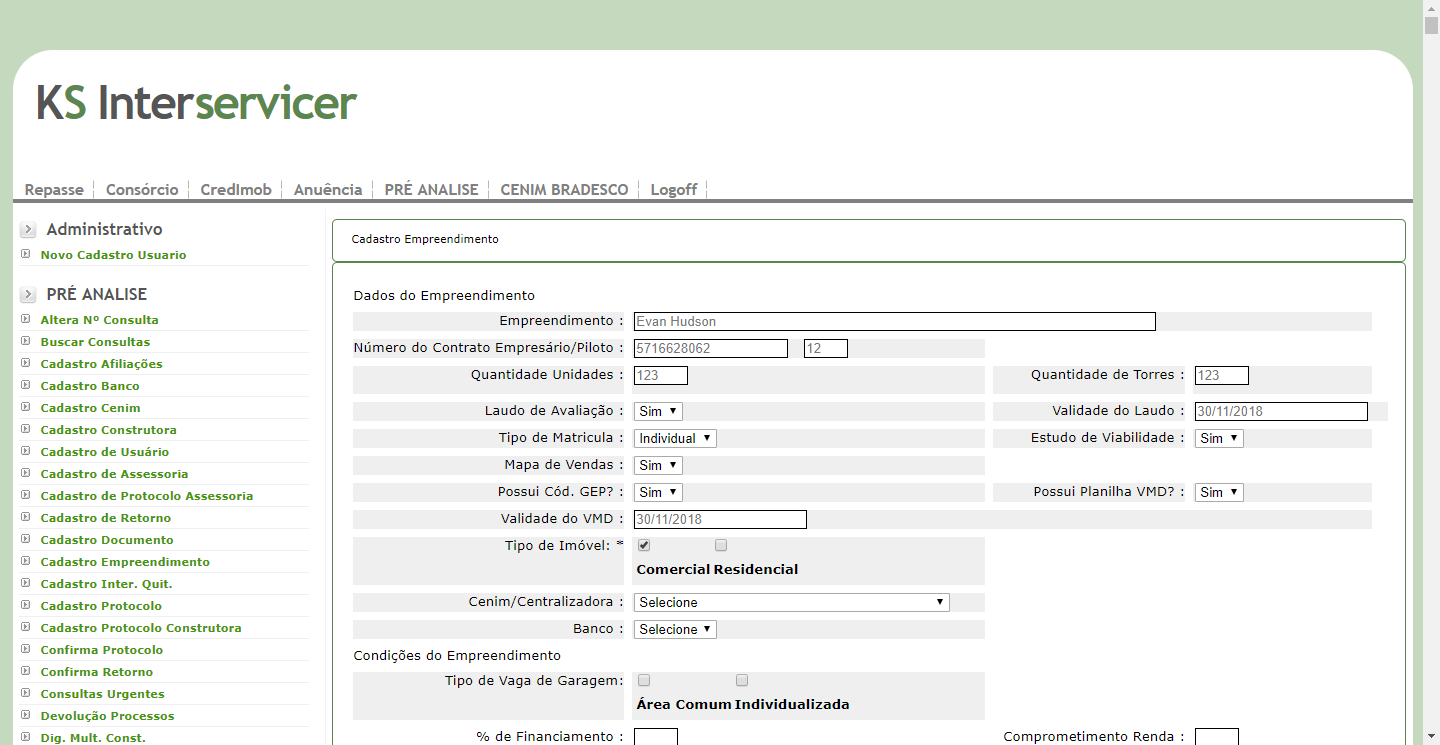
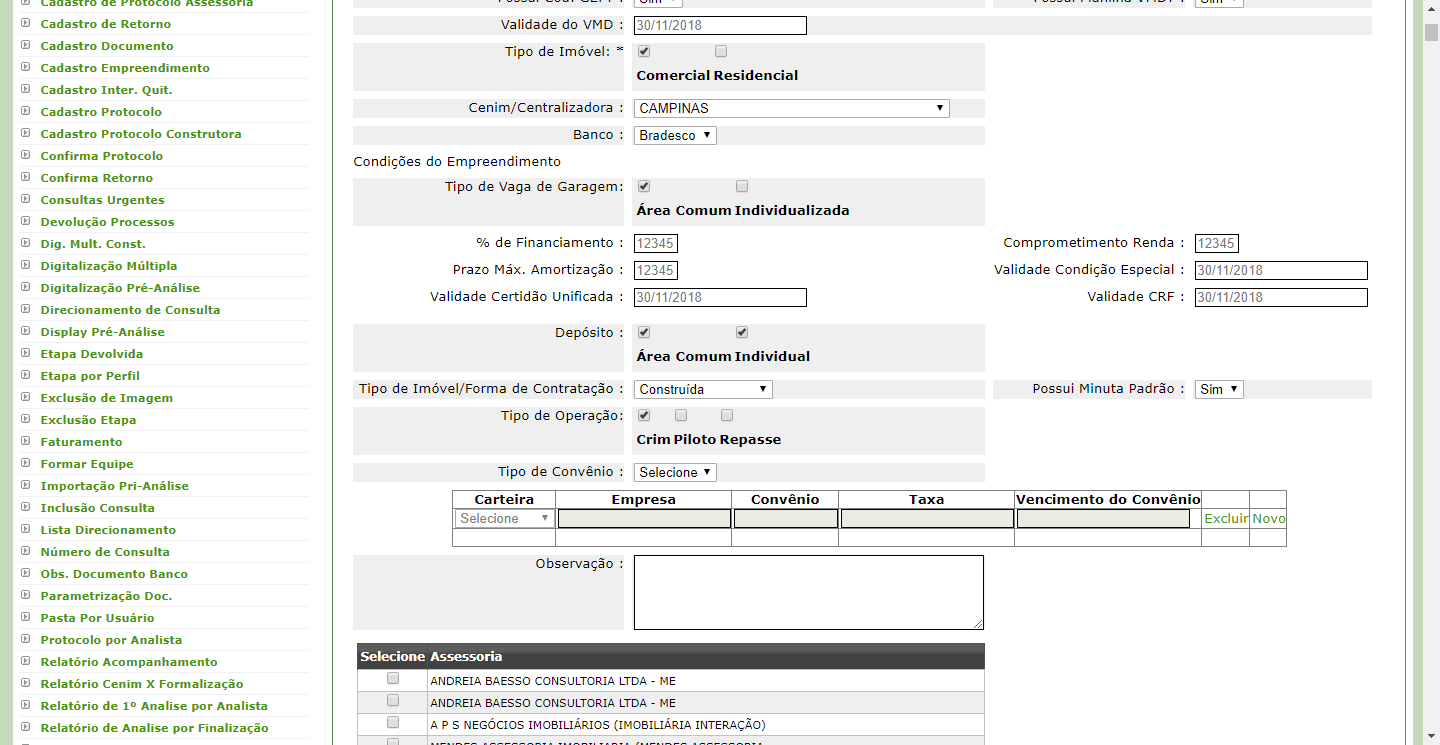
21112018

diff --git a/reports/relatorio.html b/reports/relatorio.html
@@ -467,9 +467,5 @@ function makeRed(element_id) {
 function makeYellow(element_id) {
   $('#'+element_id).css('background', '#FAF834');
   $('#'+element_id).css('color', '#000000');
-}</script></head><body><!-- Step count 0--><div class="cucumber"><div id="cucumber-header"><div id="label"><h1>Cucumber Features</h1></div><div id="summary"><p id="totals"></p><p id="duration"></p><div id="expand-collapse"><p id="expander">Expand All</p><p id="collapser">Collapse All</p></div></div></div><div class="feature"><pre class="comment"># language: pt<br/>#utf-8<br/></pre><span class="tag">@cadastro_emp</span><h2><span class="val">Funcionalidade: Cadastrar novo empreendimento</span></h2><p class="narrative">Eu como usuário do portal KS<br/>Quero acessar o menu de empreendimento<br/>Para cadastrar um novo empreendimento<br/></p><div class="background"><h3 id="background_0"><span class="keyword">Contexto</span> <span class="val">Acessar KS</span></h3><ol><li id='' class='step passed'><div class="step_name"><span class="keyword">Dado </span><span class="step val">que esteja no KS</span></div><div class="step_file"><span>features/step_definitions/Home.rb:1</span></div></li> <script type="text/javascript">moveProgressBar('100.0');</script><li id='' class='step passed'><div class="step_name"><span class="keyword">Quando </span><span class="step val">clicar no menu Cadastro empreendimento</span></div><div class="step_file"><span>features/step_definitions/cadastro_empreendimento.rb:1</span></div></li> <script type="text/javascript">moveProgressBar('100.0');</script><li id='' class='step passed'><div class="step_name"><span class="keyword">E </span><span class="step val">clico no botão Novo Emp</span></div><div class="step_file"><span>features/step_definitions/cadastro_empreendimento.rb:6</span></div></li> <script type="text/javascript">moveProgressBar('100.0');</script></ol></div><div class='scenario outline'><span class="tag">@cadastra_emp</span><span class="scenario_file">features/specs/cadastrar_novo_emp.feature:60</span><h3 id="scenario_1"><span class="keyword">Esquema do Cenário:</span> <span class="val">Validar mensagem de cadastro com sucesso</span></h3><ol><li id='' class='step skipped'><div class="step_name"><span class="keyword">Quando </span><span class="step val">preencher nome do empreendimento, contrato e &quot;&lt;digito&gt;&quot;, &quot;&lt;unidades&gt;&quot; e &quot;&lt;torres&gt;&quot;</span></div><div class="step_file"><span>features/specs/cadastrar_novo_emp.feature:61</span></div></li> <script type="text/javascript">moveProgressBar('100.0');</script><li id='' class='step skipped'><div class="step_name"><span class="keyword">E </span><span class="step val">preencher os campos Laudo de avaliação e Validade</span></div><div class="step_file"><span>features/specs/cadastrar_novo_emp.feature:62</span></div></li> <script type="text/javascript">moveProgressBar('100.0');</script><li id='' class='step skipped'><div class="step_name"><span class="keyword">E </span><span class="step val">preencher Tipo de matricula e estudo de Viabilidade</span></div><div class="step_file"><span>features/specs/cadastrar_novo_emp.feature:63</span></div></li> <script type="text/javascript">moveProgressBar('100.0');</script><pre class="comment"># E preencher Mapa de vendas e código GEP<br/></pre><li id='' class='step skipped'><div class="step_name"><span class="keyword">E </span><span class="step val">preencher planilha VMD  e Validade</span></div><div class="step_file"><span>features/specs/cadastrar_novo_emp.feature:65</span></div></li> <script type="text/javascript">moveProgressBar('100.0');</script><li id='' class='step skipped'><div class="step_name"><span class="keyword">E </span><span class="step val">preencher Tipo de imovel</span></div><div class="step_file"><span>features/specs/cadastrar_novo_emp.feature:66</span></div></li> <script type="text/javascript">moveProgressBar('100.0');</script><li id='' class='step skipped'><div class="step_name"><span class="keyword">E </span><span class="step val">escolher  as opções de Ceninm e Banco</span></div><div class="step_file"><span>features/specs/cadastrar_novo_emp.feature:67</span></div></li> <script type="text/javascript">moveProgressBar('100.0');</script><li id='' class='step skipped'><div class="step_name"><span class="keyword">E </span><span class="step val">preencher o campo tipo de Garagem</span></div><div class="step_file"><span>features/specs/cadastrar_novo_emp.feature:68</span></div></li> <script type="text/javascript">moveProgressBar('100.0');</script><li id='' class='step skipped'><div class="step_name"><span class="keyword">E </span><span class="step val">preencher os campos &quot;&lt;financiamento&gt;&quot;, &quot;&lt;renda&gt;&quot; e &quot;&lt;prazo&gt;&quot;</span></div><div class="step_file"><span>features/specs/cadastrar_novo_emp.feature:69</span></div></li> <script type="text/javascript">moveProgressBar('100.0');</script><li id='' class='step skipped'><div class="step_name"><span class="keyword">E </span><span class="step val">preencher validade de condição especial, certidão unificada e CRF</span></div><div class="step_file"><span>features/specs/cadastrar_novo_emp.feature:70</span></div></li> <script type="text/javascript">moveProgressBar('100.0');</script><li id='' class='step skipped'><div class="step_name"><span class="keyword">E </span><span class="step val">escolhar o deposito</span></div><div class="step_file"><span>features/specs/cadastrar_novo_emp.feature:71</span></div></li> <script type="text/javascript">moveProgressBar('100.0');</script><li id='' class='step skipped'><div class="step_name"><span class="keyword">E </span><span class="step val">preencher a forma de contratação e  se possui minuta  padrão</span></div><div class="step_file"><span>features/specs/cadastrar_novo_emp.feature:72</span></div></li> <script type="text/javascript">moveProgressBar('100.0');</script><li id='' class='step skipped'><div class="step_name"><span class="keyword">E </span><span class="step val">preencher o tipo de operação e convênio</span></div><div class="step_file"><span>features/specs/cadastrar_novo_emp.feature:73</span></div></li> <script type="text/javascript">moveProgressBar('100.0');</script><li id='' class='step skipped'><div class="step_name"><span class="keyword">E </span><span class="step val">escolher uma assessoria e contrutora</span></div><div class="step_file"><span>features/specs/cadastrar_novo_emp.feature:74</span></div></li> <script type="text/javascript">moveProgressBar('100.0');</script><li id='' class='step skipped'><div class="step_name"><span class="keyword">E </span><span class="step val">clicar no botão gravar</span></div><div class="step_file"><span>features/specs/cadastrar_novo_emp.feature:75</span></div></li> <script type="text/javascript">moveProgressBar('100.0');</script><li id='' class='step skipped'><div class="step_name"><span class="keyword">E </span><span class="step val">preencher o campo bloco</span></div><div class="step_file"><span>features/specs/cadastrar_novo_emp.feature:76</span></div></li> <script type="text/javascript">moveProgressBar('100.0');</script><li id='' class='step skipped'><div class="step_name"><span class="keyword">Então </span><span class="step val">as informações deverão ser salvas com sucesso</span></div><div class="step_file"><span>features/specs/cadastrar_novo_emp.feature:77</span></div></li> <script type="text/javascript">moveProgressBar('100.0');</script></ol><div class="examples"><h4><span class="keyword">Exemplos</span> <span class="val"></span></h4><table><tr class='step' id='features_specs_cadastrar_novo_emp_feature_80'><th id="features_specs_cadastrar_novo_emp_feature_80_0" class="step skipped_param"><div><span class="step param">digito</span></div></th><th id="features_specs_cadastrar_novo_emp_feature_80_1" class="step skipped_param"><div><span class="step param">unidades</span></div></th><th id="features_specs_cadastrar_novo_emp_feature_80_2" class="step skipped_param"><div><span class="step param">torres</span></div></th></tr> <script type="text/javascript">moveProgressBar('100.0');</script><tr class='step' id='features_specs_cadastrar_novo_emp_feature_81'><td id="features_specs_cadastrar_novo_emp_feature_81_0" class="step failed"><div><span class="step param">123</span></div></td><script>makeRed('cucumber-header');makeRed('scenario_1');</script><td id="features_specs_cadastrar_novo_emp_feature_81_1" class="step failed"><div><span class="step param">123</span></div></td><script></script><td id="features_specs_cadastrar_novo_emp_feature_81_2" class="step failed"><div><span class="step param">123</span></div></td><script></script><span class="embed"><a href="" onclick="img=document.getElementById('img_1'); img.style.display = (img.style.display == 'none' ? 'block' : 'none');return false">Clique aqui</a><br>&nbsp;
-          <img id="img_1" style="display: none" src="../results/screenshots/teste_Falhou/validar_mensagem_de_cadastro_com_sucesso,_exemplos_(#1).png"/></span></tr><tr><td colspan="3" class="failed"><pre>Ambiguous match, found 10 elements matching visible css &quot;option[value=\&quot;1\&quot;]&quot;
-./features/pages/Cadastro_Empreendimento_page.rb:77:in `choose_banco&#39;
-./features/step_definitions/cadastro_empreendimento.rb:69:in `&quot;escolher  as opções de Ceninm e Banco&quot;&#39;
-features/specs/cadastrar_novo_emp.feature:81:in `E escolher  as opções de Ceninm e Banco&#39;
-features/specs/cadastrar_novo_emp.feature:67:in `E escolher  as opções de Ceninm e Banco&#39;</pre></td></tr><script></script> <script type="text/javascript">moveProgressBar('100.0');</script></table></div></div></div><script type="text/javascript">document.getElementById('duration').innerHTML = "Finished in <strong>0m25.415s seconds</strong>";</script><script type="text/javascript">document.getElementById('totals').innerHTML = "1 scenario (1 failed)<br />19 steps (1 failed, 10 skipped, 8 passed)";</script></div></body></html>
+}</script></head><body><!-- Step count 0--><div class="cucumber"><div id="cucumber-header"><div id="label"><h1>Cucumber Features</h1></div><div id="summary"><p id="totals"></p><p id="duration"></p><div id="expand-collapse"><p id="expander">Expand All</p><p id="collapser">Collapse All</p></div></div></div><div class="feature"><pre class="comment"># language: pt<br/>#utf-8<br/></pre><span class="tag">@cadastro_emp</span><h2><span class="val">Funcionalidade: Cadastrar novo empreendimento</span></h2><p class="narrative">Eu como usuário do portal KS<br/>Quero acessar o menu de empreendimento<br/>Para cadastrar um novo empreendimento<br/></p><div class="background"><h3 id="background_0"><span class="keyword">Contexto</span> <span class="val">Acessar KS</span></h3><ol><li id='' class='step passed'><div class="step_name"><span class="keyword">Dado </span><span class="step val">que esteja no KS</span></div><div class="step_file"><span>features/step_definitions/Home.rb:1</span></div></li> <script type="text/javascript">moveProgressBar('100.0');</script><li id='' class='step passed'><div class="step_name"><span class="keyword">Quando </span><span class="step val">clicar no menu Cadastro empreendimento</span></div><div class="step_file"><span>features/step_definitions/cadastro_empreendimento.rb:1</span></div></li> <script type="text/javascript">moveProgressBar('100.0');</script><li id='' class='step passed'><div class="step_name"><span class="keyword">E </span><span class="step val">clico no botão Novo Emp</span></div><div class="step_file"><span>features/step_definitions/cadastro_empreendimento.rb:6</span></div></li> <script type="text/javascript">moveProgressBar('100.0');</script></ol></div><div class='scenario outline'><span class="tag">@cadastra_emp</span><span class="scenario_file">features/specs/cadastrar_novo_emp.feature:60</span><h3 id="scenario_1"><span class="keyword">Esquema do Cenário:</span> <span class="val">Validar mensagem de cadastro com sucesso</span></h3><ol><li id='' class='step skipped'><div class="step_name"><span class="keyword">Quando </span><span class="step val">preencher nome do empreendimento, contrato e &quot;&lt;digito&gt;&quot;, &quot;&lt;unidades&gt;&quot; e &quot;&lt;torres&gt;&quot;</span></div><div class="step_file"><span>features/specs/cadastrar_novo_emp.feature:61</span></div></li> <script type="text/javascript">moveProgressBar('100.0');</script><li id='' class='step skipped'><div class="step_name"><span class="keyword">E </span><span class="step val">preencher os campos Laudo de avaliação e Validade</span></div><div class="step_file"><span>features/specs/cadastrar_novo_emp.feature:62</span></div></li> <script type="text/javascript">moveProgressBar('100.0');</script><li id='' class='step skipped'><div class="step_name"><span class="keyword">E </span><span class="step val">preencher Tipo de matricula e estudo de Viabilidade</span></div><div class="step_file"><span>features/specs/cadastrar_novo_emp.feature:63</span></div></li> <script type="text/javascript">moveProgressBar('100.0');</script><pre class="comment"># E preencher Mapa de vendas e código GEP<br/></pre><li id='' class='step skipped'><div class="step_name"><span class="keyword">E </span><span class="step val">preencher planilha VMD  e Validade</span></div><div class="step_file"><span>features/specs/cadastrar_novo_emp.feature:65</span></div></li> <script type="text/javascript">moveProgressBar('100.0');</script><li id='' class='step skipped'><div class="step_name"><span class="keyword">E </span><span class="step val">preencher Tipo de imovel</span></div><div class="step_file"><span>features/specs/cadastrar_novo_emp.feature:66</span></div></li> <script type="text/javascript">moveProgressBar('100.0');</script><li id='' class='step skipped'><div class="step_name"><span class="keyword">E </span><span class="step val">escolher  as opções de Ceninm e Banco</span></div><div class="step_file"><span>features/specs/cadastrar_novo_emp.feature:67</span></div></li> <script type="text/javascript">moveProgressBar('100.0');</script><li id='' class='step skipped'><div class="step_name"><span class="keyword">E </span><span class="step val">preencher o campo tipo de Garagem</span></div><div class="step_file"><span>features/specs/cadastrar_novo_emp.feature:68</span></div></li> <script type="text/javascript">moveProgressBar('100.0');</script><li id='' class='step skipped'><div class="step_name"><span class="keyword">E </span><span class="step val">preencher os campos &quot;&lt;financiamento&gt;&quot;, &quot;&lt;renda&gt;&quot; e &quot;&lt;prazo&gt;&quot;</span></div><div class="step_file"><span>features/specs/cadastrar_novo_emp.feature:69</span></div></li> <script type="text/javascript">moveProgressBar('100.0');</script><li id='' class='step skipped'><div class="step_name"><span class="keyword">E </span><span class="step val">preencher validade de condição especial, certidão unificada e CRF</span></div><div class="step_file"><span>features/specs/cadastrar_novo_emp.feature:70</span></div></li> <script type="text/javascript">moveProgressBar('100.0');</script><li id='' class='step skipped'><div class="step_name"><span class="keyword">E </span><span class="step val">escolhar o deposito</span></div><div class="step_file"><span>features/specs/cadastrar_novo_emp.feature:71</span></div></li> <script type="text/javascript">moveProgressBar('100.0');</script><li id='' class='step skipped'><div class="step_name"><span class="keyword">E </span><span class="step val">preencher a forma de contratação e  se possui minuta  padrão</span></div><div class="step_file"><span>features/specs/cadastrar_novo_emp.feature:72</span></div></li> <script type="text/javascript">moveProgressBar('100.0');</script><li id='' class='step skipped'><div class="step_name"><span class="keyword">E </span><span class="step val">preencher o tipo de operação e convênio</span></div><div class="step_file"><span>features/specs/cadastrar_novo_emp.feature:73</span></div></li> <script type="text/javascript">moveProgressBar('100.0');</script><li id='' class='step skipped'><div class="step_name"><span class="keyword">E </span><span class="step val">escolher uma assessoria e contrutora</span></div><div class="step_file"><span>features/specs/cadastrar_novo_emp.feature:74</span></div></li> <script type="text/javascript">moveProgressBar('100.0');</script><li id='' class='step skipped'><div class="step_name"><span class="keyword">E </span><span class="step val">clicar no botão gravar</span></div><div class="step_file"><span>features/specs/cadastrar_novo_emp.feature:75</span></div></li> <script type="text/javascript">moveProgressBar('100.0');</script><li id='' class='step skipped'><div class="step_name"><span class="keyword">E </span><span class="step val">preencher o campo bloco</span></div><div class="step_file"><span>features/specs/cadastrar_novo_emp.feature:76</span></div></li> <script type="text/javascript">moveProgressBar('100.0');</script><li id='' class='step skipped'><div class="step_name"><span class="keyword">Então </span><span class="step val">as informações deverão ser salvas com sucesso</span></div><div class="step_file"><span>features/specs/cadastrar_novo_emp.feature:77</span></div></li> <script type="text/javascript">moveProgressBar('100.0');</script></ol><div class="examples"><h4><span class="keyword">Exemplos</span> <span class="val"></span></h4><table><tr class='step' id='features_specs_cadastrar_novo_emp_feature_80'><th id="features_specs_cadastrar_novo_emp_feature_80_0" class="step skipped_param"><div><span class="step param">digito</span></div></th><th id="features_specs_cadastrar_novo_emp_feature_80_1" class="step skipped_param"><div><span class="step param">unidades</span></div></th><th id="features_specs_cadastrar_novo_emp_feature_80_2" class="step skipped_param"><div><span class="step param">torres</span></div></th><th id="features_specs_cadastrar_novo_emp_feature_80_3" class="step skipped_param"><div><span class="step param">financiamento</span></div></th><th id="features_specs_cadastrar_novo_emp_feature_80_4" class="step skipped_param"><div><span class="step param">renda</span></div></th><th id="features_specs_cadastrar_novo_emp_feature_80_5" class="step skipped_param"><div><span class="step param">prazo</span></div></th></tr> <script type="text/javascript">moveProgressBar('100.0');</script><tr class='step' id='features_specs_cadastrar_novo_emp_feature_81'><td id="features_specs_cadastrar_novo_emp_feature_81_0" class="step passed"><div><span class="step param">123</span></div></td><td id="features_specs_cadastrar_novo_emp_feature_81_1" class="step passed"><div><span class="step param">123</span></div></td><td id="features_specs_cadastrar_novo_emp_feature_81_2" class="step passed"><div><span class="step param">123</span></div></td><td id="features_specs_cadastrar_novo_emp_feature_81_3" class="step passed"><div><span class="step param">12345</span></div></td><td id="features_specs_cadastrar_novo_emp_feature_81_4" class="step passed"><div><span class="step param">12345</span></div></td><td id="features_specs_cadastrar_novo_emp_feature_81_5" class="step passed"><div><span class="step param">12345</span></div></td><span class="embed"><a href="" onclick="img=document.getElementById('img_1'); img.style.display = (img.style.display == 'none' ? 'block' : 'none');return false">Clique aqui</a><br>&nbsp;
+          <img id="img_1" style="display: none" src="../results/screenshots/teste_Passou/validar_mensagem_de_cadastro_com_sucesso,_exemplos_(#1).png"/></span></tr> <script type="text/javascript">moveProgressBar('100.0');</script></table></div></div></div><script type="text/javascript">document.getElementById('duration').innerHTML = "Finished in <strong>0m26.184s seconds</strong>";</script><script type="text/javascript">document.getElementById('totals').innerHTML = "1 scenario (1 passed)<br />19 steps (19 passed)";</script></div></body></html>

diff --git a/features/pages/Cadastro_Empreendimento_page.rb b/features/pages/Cadastro_Empreendimento_page.rb
@@ -11,6 +11,18 @@ class CadastroEmpreendimentoPage < SitePrism::Page
     element :tipo_matricula, :xpath, '//select[@id = "ctl00_ContentPlaceHolder1_TabContainer1_TabPanel1_ddlTipoMatricula"]/option[2]'
     element :validade_laudo, :id, 'ctl00_ContentPlaceHolder1_TabContainer1_TabPanel1_txtDtLaudo'
     element :validade_VMD, :id, 'ctl00_ContentPlaceHolder1_TabContainer1_TabPanel1_txtValidadeVMD'
+    element :financiamento, :id, 'ctl00_ContentPlaceHolder1_TabContainer1_TabPanel1_txtPorcentagemFinanciamento'
+    element :renda, :id, 'ctl00_ContentPlaceHolder1_TabContainer1_TabPanel1_txtComprometimentoRenda'
+    element :prazo_amortização, :id, 'ctl00_ContentPlaceHolder1_TabContainer1_TabPanel1_txtPrazoMaxAmor'
+    element :validade_condicao_especial, :id, 'ctl00_ContentPlaceHolder1_TabContainer1_TabPanel1_txtDtCondicaoEspecial'
+    element :validade_certidao_unificada, :id, 'ctl00_ContentPlaceHolder1_TabContainer1_TabPanel1_txtDtValidadeCertUnificada'
+    element :validade_crf, :id, 'ctl00_ContentPlaceHolder1_TabContainer1_TabPanel1_txtDtValidadeCRF'
+    element :deposito_area_comum, :id, 'ctl00_ContentPlaceHolder1_TabContainer1_TabPanel1_chkDeposito_0'
+    element :deposito_individual, :id, 'ctl00_ContentPlaceHolder1_TabContainer1_TabPanel1_chkDeposito_1'
+    element :operacao_crim, :id, 'ctl00_ContentPlaceHolder1_TabContainer1_TabPanel1_chkTipoOperacao_0'
+    element :operacao_piloto, :id, 'ctl00_ContentPlaceHolder1_TabContainer1_TabPanel1_chkTipoOperacao_1'
+    element :operacao_repasse, :id, 'ctl00_ContentPlaceHolder1_TabContainer1_TabPanel1_chkTipoOperacao_2'
+
 
     element :bloco, :id, 'ctl00_ContentPlaceHolder1_TabContainer1_TabPanel1_txtBloco'
     
@@ -30,12 +42,14 @@ class CadastroEmpreendimentoPage < SitePrism::Page
         page.execute_script "window.scrollTo(0,1000000)" 
     end
 
-    def dados_empreendimento1(digit, qtdUnidades, qtdTorres)
+    def nome_empreendimento_fake
         nome_emp.click
         @nomeEmpreendimento = Faker::Name.name 
         nome_emp.set(@nomeEmpreendimento)
+    end
 
-        nome_emp.click
+    def dados_empreendimento1(digit, qtdUnidades, qtdTorres)
+        num_contrato.click
         @numero_Contrato = Faker::Number.number(10) #=> "1968353479"
         num_contrato.set(@numero_Contrato)
 
@@ -57,24 +71,68 @@ class CadastroEmpreendimentoPage < SitePrism::Page
     def dados_empreendimento4
         validade_VMD.click
         find('#ctl00_ContentPlaceHolder1_TabContainer1_TabPanel1_CalendarExtender1_day_4_5').click       
-   end
+    end
 
-   def dados_empreendimento5
+    def tipo_imovel
         find('#ctl00_ContentPlaceHolder1_TabContainer1_TabPanel1_chkTipoImovel_0').click #Comercial
         # find('#ctl00_ContentPlaceHolder1_TabContainer1_TabPanel1_chkTipoImovel_1').click #Residencial
-   end 
-
-   def tipo_de_garagem
-    find('#ctl00_ContentPlaceHolder1_TabContainer1_TabPanel1_chkTipoGaragem_0').click #Area comum
-    # find('#ctl00_ContentPlaceHolder1_TabContainer1_TabPanel1_chkTipoGaragem_1').click #Individualizada
+        sleep 1
     end 
 
     def choose_cenim
         find('option[value="183"]').select_option
+        sleep 1
     end
 
     def choose_banco
-        find('option[value="1"]').select_option
+        find(:xpath, '//option[text() ="Bradesco"]').select_option
+        sleep 1
+    end
+
+    def tipo_de_garagem
+        find('#ctl00_ContentPlaceHolder1_TabContainer1_TabPanel1_chkTipoGaragem_0').click #Area comum
+        # find('#ctl00_ContentPlaceHolder1_TabContainer1_TabPanel1_chkTipoGaragem_1').click #Individualizada
+        sleep 1
+    end 
+
+    def dados_empreendimento6(campo_financiamento, campo_renda, campo_prazo)
+        financiamento.click
+        financiamento.set(campo_financiamento)
+        renda.click
+        renda.set(campo_renda)
+        prazo_amortização.click
+        prazo_amortização.set(campo_prazo)
+    end 
+
+    def preenchimento_validades
+        validade_condicao_especial.click
+        find('#ctl00_ContentPlaceHolder1_TabContainer1_TabPanel1_CalendarExtender2_day_4_5').click       
+
+        validade_certidao_unificada.click
+        find('#ctl00_ContentPlaceHolder1_TabContainer1_TabPanel1_CalendarExtender3_day_4_5').click       
+
+        validade_crf.click
+        find('#ctl00_ContentPlaceHolder1_TabContainer1_TabPanel1_CalendarExtender4_day_4_5').click 
+    end 
+
+    def choose_deposito
+        deposito_area_comum.click 
+        deposito_individual.click
+        sleep 1
+    end
+
+    def forma_contratacao
+        find(:xpath, '//option[text() ="Construída"]').select_option
+        sleep 1
+    end
+
+    def tipo_de_operacao_convenio
+        operacao_crim.click
+        # operacao_piloto.click
+        # operacao_repasse.click
+        sleep 1
+
+        find(:xpath, '//select[@id ="ctl00_ContentPlaceHolder1_TabContainer1_TabPanel1_ddlTipoConvenio"]/option[3]').select_option
     end
 
     def choose_assessoria
@@ -93,4 +151,4 @@ class CadastroEmpreendimentoPage < SitePrism::Page
         find(:xpath, '//input[@value = "Voltar"]').click 
     end
 
-   end
+end

diff --git a/features/step_definitions/cadastro_empreendimento.rb b/features/step_definitions/cadastro_empreendimento.rb
@@ -41,7 +41,8 @@ Quando("clicar no menu Cadastro empreendimento") do
 
   #Cenário 15: Validar mensagem de cadastro com sucesso
   Quando("preencher nome do empreendimento, contrato e {string}, {string} e {string}") do |valor1, valor2, valor3|
-      $novo_emp.dados_empreendimento1(valor1, valor2, valor3)
+    $novo_emp.nome_empreendimento_fake
+    $novo_emp.dados_empreendimento1(valor1, valor2, valor3)
   end
   
   Quando("preencher os campos Laudo de avaliação e Validade") do
@@ -52,16 +53,12 @@ Quando("clicar no menu Cadastro empreendimento") do
     $novo_emp.dados_empreendimento3
   end
   
-  # Quando("preencher Mapa de vendas e código GEP") do
-  #   pending # Write code here that turns the phrase above into concrete actions
-  # end
-  
   Quando("preencher planilha VMD  e Validade") do
     $novo_emp.dados_empreendimento4
   end
   
   Quando("preencher Tipo de imovel") do
-   $novo_emp.dados_empreendimento5
+   $novo_emp.tipo_imovel
   end
   
   Quando("escolher  as opções de Ceninm e Banco") do
@@ -71,29 +68,28 @@ Quando("clicar no menu Cadastro empreendimento") do
   
   Quando("preencher o campo tipo de Garagem") do
     $novo_emp.tipo_de_garagem
-    sleep 2
-  end
+ end
   
   Quando("preencher os campos {string}, {string} e {string}") do |string, string2, string3|
-    pending # Write code here that turns the phrase above into concrete actions
+    $novo_emp.dados_empreendimento6(string, string2, string3)
   end
   
   Quando("preencher validade de condição especial, certidão unificada e CRF") do
-    pending # Write code here that turns the phrase above into concrete actions
+    $novo_emp.preenchimento_validades
   end
   
   Quando("escolhar o deposito") do
-    pending # Write code here that turns the phrase above into concrete actions
+    $novo_emp.choose_deposito
+    sleep 2
   end
   
   Quando("preencher a forma de contratação e  se possui minuta  padrão") do
-    pending # Write code here that turns the phrase above into concrete actions
+    $novo_emp.forma_contratacao
   end
   
   Quando("preencher o tipo de operação e convênio") do
-    pending # Write code here that turns the phrase above into concrete actions
-  end  
-  
+    $novo_emp.tipo_de_operacao_convenio
+  end   
   
   
   Quando("escolher uma assessoria e contrutora") do
@@ -124,4 +120,17 @@ Quando("clicar no menu Cadastro empreendimento") do
   
   Então("deverá retornar para a interface de consulta o empreendimento") do
     expect(page).to have_current_path('https://ksbrad-homolo.interservicer.com.br/webforms/addCenimListaEmpreendimento.aspx', url: true)
+  end
+
+  #Cenário 7: Validar ao cadastrar um empreendimento com nome já existente
+  Quando("preencher {string}, contrato e {string}, {string} e {string}") do |string, string2, string3, string4|
+    $novo_emp.nome_emp.set(string)
+    $novo_emp.dados_empreendimento1(string2, string3, string4)
+  end
+
+  Então("deverá ser exibido  mensagem “Nome já existente”.") do
+    sleep 1
+    page.execute_script "window.scrollTo(0,0)" 
+    texto_existente = find('#ctl00_ContentPlaceHolder1_TabContainer1_TabPanel1_lblMensagem')
+    expect(texto_existente.text).to eql  'Nome de Empreendimento já cadastrado.'
   end
